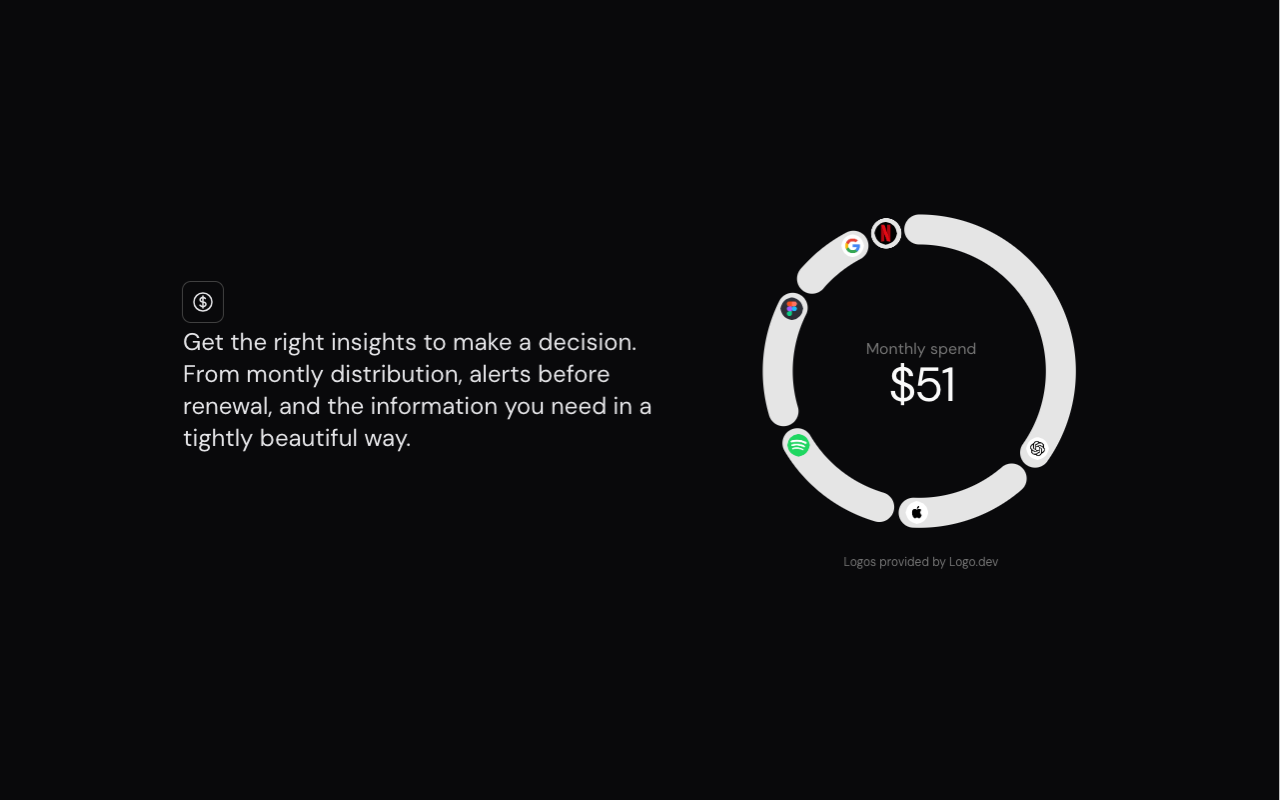
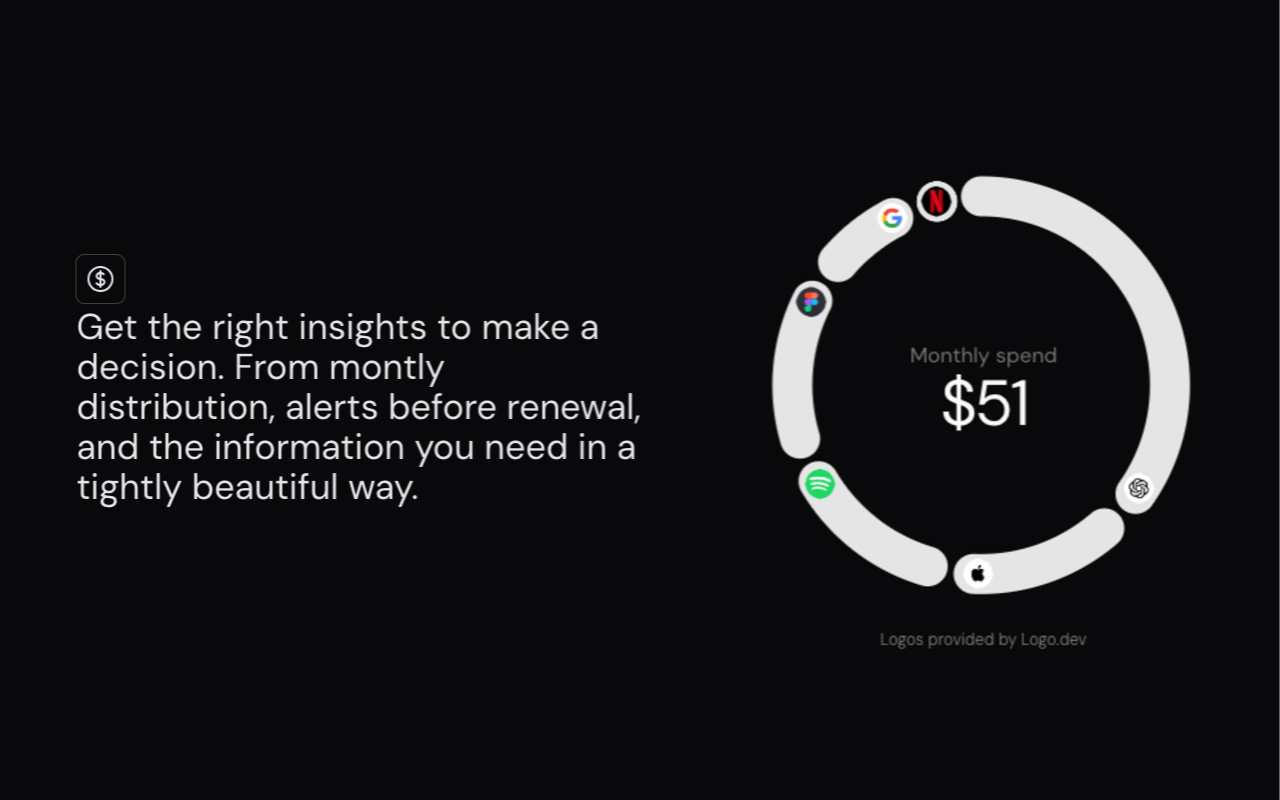
fix: change social

Changed region(s): [[0.5938, 0.2188, 0.9375, 0.75], [0.0625, 0.3125, 0.5312, 0.625], [0.6875, 0.7812, 0.8438, 0.8125]]

diff --git a/app/pages/social.vue b/app/pages/social.vue
@@ -1,84 +1,83 @@
 <template>
-  <div class="max-w-6xl mx-auto my-20 flex gap-2 p-20 overflow-hidden">
+  <div class="max-w-7xl mx-auto my-20 flex gap-4 p-20 overflow-hidden">
     <div>
-      <span class="flex items-center gap-1 mb-2 text-4xl">
-        <UIcon name="i-heroicons-arrow-path-rounded-square" class="h-10 w-10" />
+      <span class="flex items-center gap-1 mb-2 text-5xl">
+        <UIcon name="i-heroicons-arrow-path-rounded-square" class="h-11 w-11" />
         SubWatch
       </span>
-      <p class="mb-12 text-2xl">Turn subscription chaos into financial harmony</p>
+      <p class="mb-12 text-3xl">Turn subscription chaos into financial harmony</p>
 
-      <ul class="space-y-4">
-        <li class="flex items-center gap-4 text-lg">
-          <div class="p-2 ring-1 ring-neutral-700 rounded-lg h-9"><UIcon name="i-heroicons-sparkles" class="h-5 w-5" /></div>
+      <ul class="space-y-4 text-2xl">
+        <li class="flex items-center gap-4">
+          <div class="p-2 ring-1 ring-neutral-700 rounded-lg h-10"><UIcon name="i-heroicons-sparkles" class="h-6 w-6" /></div>
           Track all your subscriptions in one place.
         </li>
-        <li class="flex items-center gap-4 text-lg">
-          <div class="p-2 ring-1 ring-neutral-700 rounded-lg h-9"><UIcon name="i-heroicons-bell-alert" class="h-5 w-5" /></div>
+        <li class="flex items-center gap-4">
+          <div class="p-2 ring-1 ring-neutral-700 rounded-lg h-10"><UIcon name="i-heroicons-bell-alert" class="h-6 w-6" /></div>
           Get notified before renewals.
         </li>
-        <li class="flex items-center gap-4 text-lg">
-          <div class="p-2 ring-1 ring-neutral-700 rounded-lg h-9"><UIcon name="i-heroicons-currency-dollar" class="h-5 w-5" /></div>
+        <li class="flex items-center gap-4">
+          <div class="p-2 ring-1 ring-neutral-700 rounded-lg h-10"><UIcon name="i-heroicons-currency-dollar" class="h-6 w-6" /></div>
           Maximize savings, minimize hassles, with zero effort.
         </li>
       </ul>
     </div>
 
     <div class="relative h-full w-full">
-      <img src="/assets/social-2.png" class="absolute -top-20 -right-36 h-[28rem] w-[28rem]" />
-      <img src="/assets/social-1.png" class="absolute top-0 left-2 h-[28rem] w-[28rem]" />
-      <img src="/assets/chrome-notification.png" class="absolute -top-8 left-44 h-[6rem] w-[20rem]" />
+      <img src="/assets/social-2.png" class="absolute -top-20 -right-36 h-[30rem] w-[30rem]" />
+      <img src="/assets/social-1.png" class="absolute top-0 -left-2 h-[30rem] w-[30rem]" />
+      <img src="/assets/chrome-notification.png" class="absolute -top-8 left-44 h-[7rem] w-[24rem]" />
     </div>
   </div>
 
   <div class="max-w-6xl mx-auto overflow-hidden my-60 p-2 gap-20 flex justify-center items-center">
-    <div class="text-3xl space-y-1">
-      <div class="p-2 ring-1 ring-neutral-700 rounded-lg h-10 w-10 flex items-center justify-center">
-        <UIcon name="i-heroicons-sparkles" class="h-6 w-6" />
+    <div class="text-4xl space-y-1">
+      <div class="p-2 ring-1 ring-neutral-700 rounded-lg h-12 w-12 flex items-center justify-center">
+        <UIcon name="i-heroicons-sparkles" class="h-8 w-8" />
       </div>
       <p>Understand your whole subscription chaos at a glance.</p>
     </div>
 
     <div class="relative h-full w-full">
-      <img src="/assets/social-1.png" class="h-[34rem] w-[34rem]" />
+      <img src="/assets/social-1.png" class="h-[40rem] w-[40rem]" />
     </div>
   </div>
 
-  <div class="max-w-6xl mx-auto overflow-hidden my-60 p-2 gap-4 flex justify-center items-center">
-    <div class="text-2xl space-y-1">
-      <div class="p-2 ring-1 ring-neutral-700 rounded-lg h-10 w-10 flex items-center justify-center">
-        <UIcon name="i-heroicons-currency-dollar" class="h-6 w-6" />
+  <div class="max-w-7xl mx-auto overflow-hidden my-60 p-2 gap-2 flex justify-center items-center">
+    <div class="text-4xl space-y-1">
+      <div class="p-2 ring-1 ring-neutral-700 rounded-lg h-12 w-12 flex items-center justify-center">
+        <UIcon name="i-heroicons-currency-dollar" class="h-8 w-8" />
       </div>
-      <p class="w-[30rem]">
-        Get the right insights to make a decision.<br />From montly distribution, alerts before<br />renewal, and the information you need in a tightly
-        beautiful way.
+      <p class="w-[36rem]">
+        Get the right insights to make a decision. From montly distribution, alerts before renewal, and the information you need in a tightly beautiful way.
       </p>
     </div>
     <div class="relative h-full w-full">
-      <img src="/assets/social-2.png" class="h-[30rem] w-[30rem]" />
+      <img src="/assets/social-2.png" class="h-[40rem] w-[40rem]" />
     </div>
   </div>
 
-  <div class="max-w-6xl mx-auto overflow-hidden my-96 p-2 gap-14 flex justify-center items-center">
-    <div class="text-2xl space-y-1">
-      <div class="p-2 ring-1 ring-neutral-700 rounded-lg h-10 w-10 flex items-center justify-center">
-        <UIcon name="i-heroicons-bell-alert" class="h-6 w-6" />
+  <div class="max-w-7xl mx-auto overflow-hidden my-96 p-2 gap-14 flex justify-center items-center">
+    <div class="text-4xl space-y-1">
+      <div class="p-2 ring-1 ring-neutral-700 rounded-lg h-12 w-12 flex items-center justify-center">
+        <UIcon name="i-heroicons-bell-alert" class="h-8 w-8" />
       </div>
       <p>Get notified before renewals. Maximize savings, minimize hassles, with zero effort.</p>
     </div>
     <div class="relative h-full w-full">
-      <img src="/assets/chrome-notification.png" class="h-[8rem] w-[28rem]" />
+      <img src="/assets/chrome-notification.png" class="h-[10rem] w-[35rem]" />
     </div>
   </div>
 
-  <div class="max-w-6xl mx-auto overflow-hidden my-96 p-2 gap-14 flex justify-center items-center">
-    <div class="text-2xl space-y-1">
-      <div class="p-2 ring-1 ring-neutral-700 rounded-lg h-10 w-10 flex items-center justify-center">
-        <UIcon name="i-heroicons-cursor-arrow-rays" class="h-6 w-6" />
+  <div class="max-w-6xl mx-auto overflow-hidden my-96 p-2 gap-20 flex justify-center items-center">
+    <div class="text-3xl space-y-1">
+      <div class="p-2 ring-1 ring-neutral-700 rounded-lg h-12 w-12 flex items-center justify-center">
+        <UIcon name="i-heroicons-cursor-arrow-rays" class="h-8 w-8" />
       </div>
       <p>Add new subscriptions with just 2 clicks right from your Gmail.</p>
     </div>
     <div class="relative h-full w-full">
-      <img src="/assets/gmail.png" class="rounded-xl h-[15rem] w-[20rem]" />
+      <img src="/assets/gmail.png" class="rounded-xl h-[16rem] w-[22rem]" />
     </div>
   </div>
 </template>
